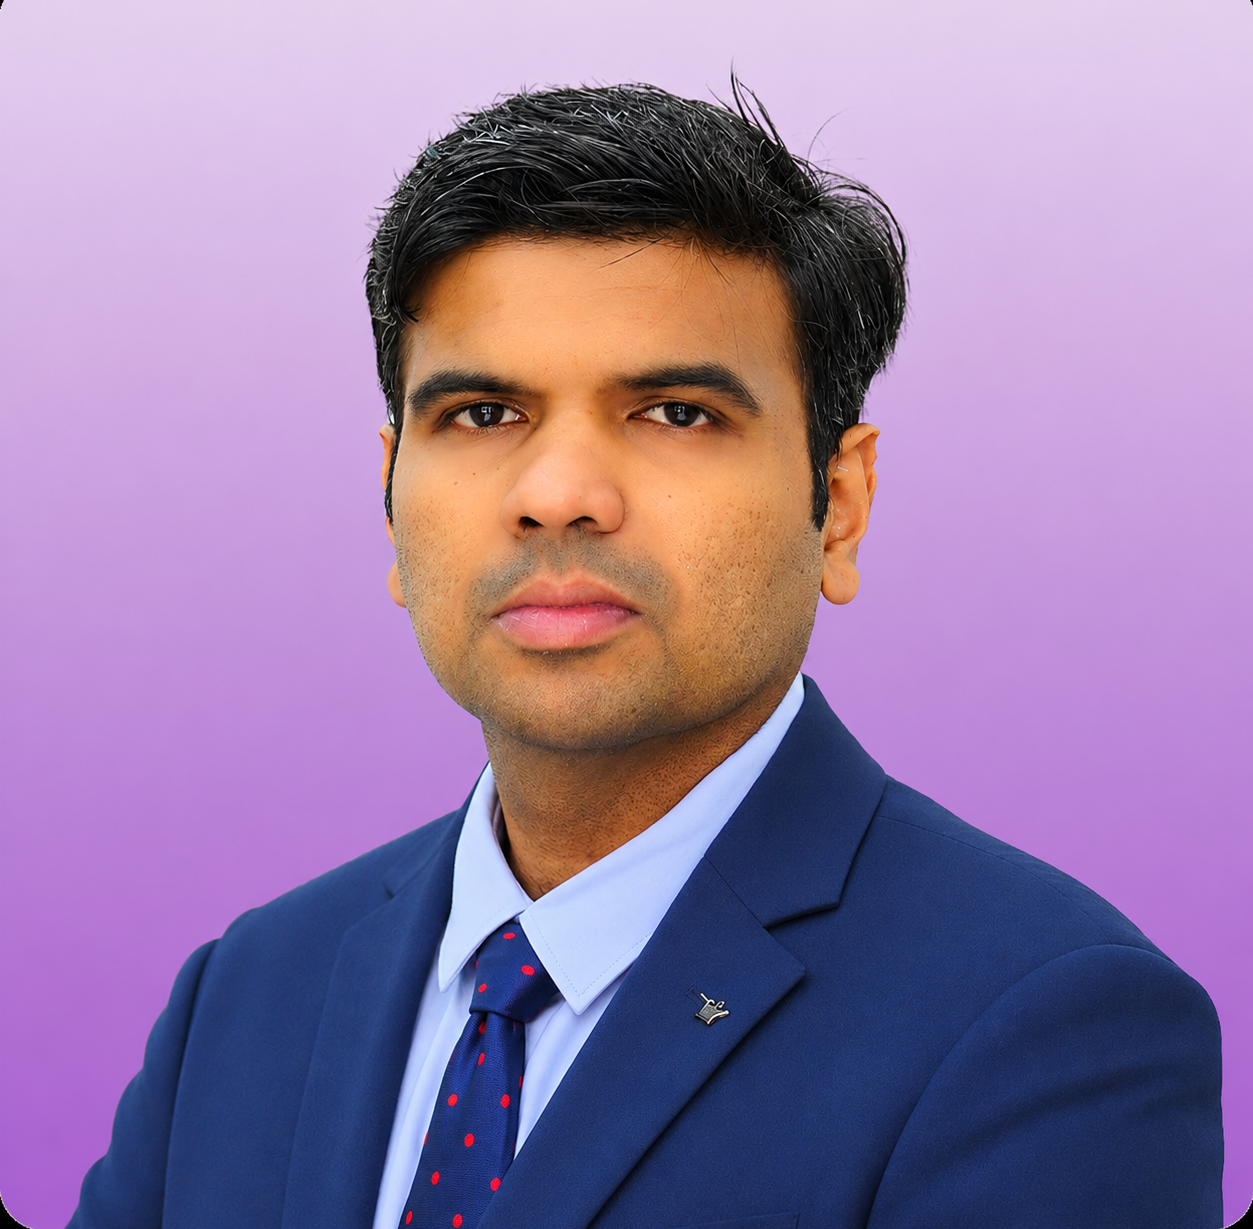
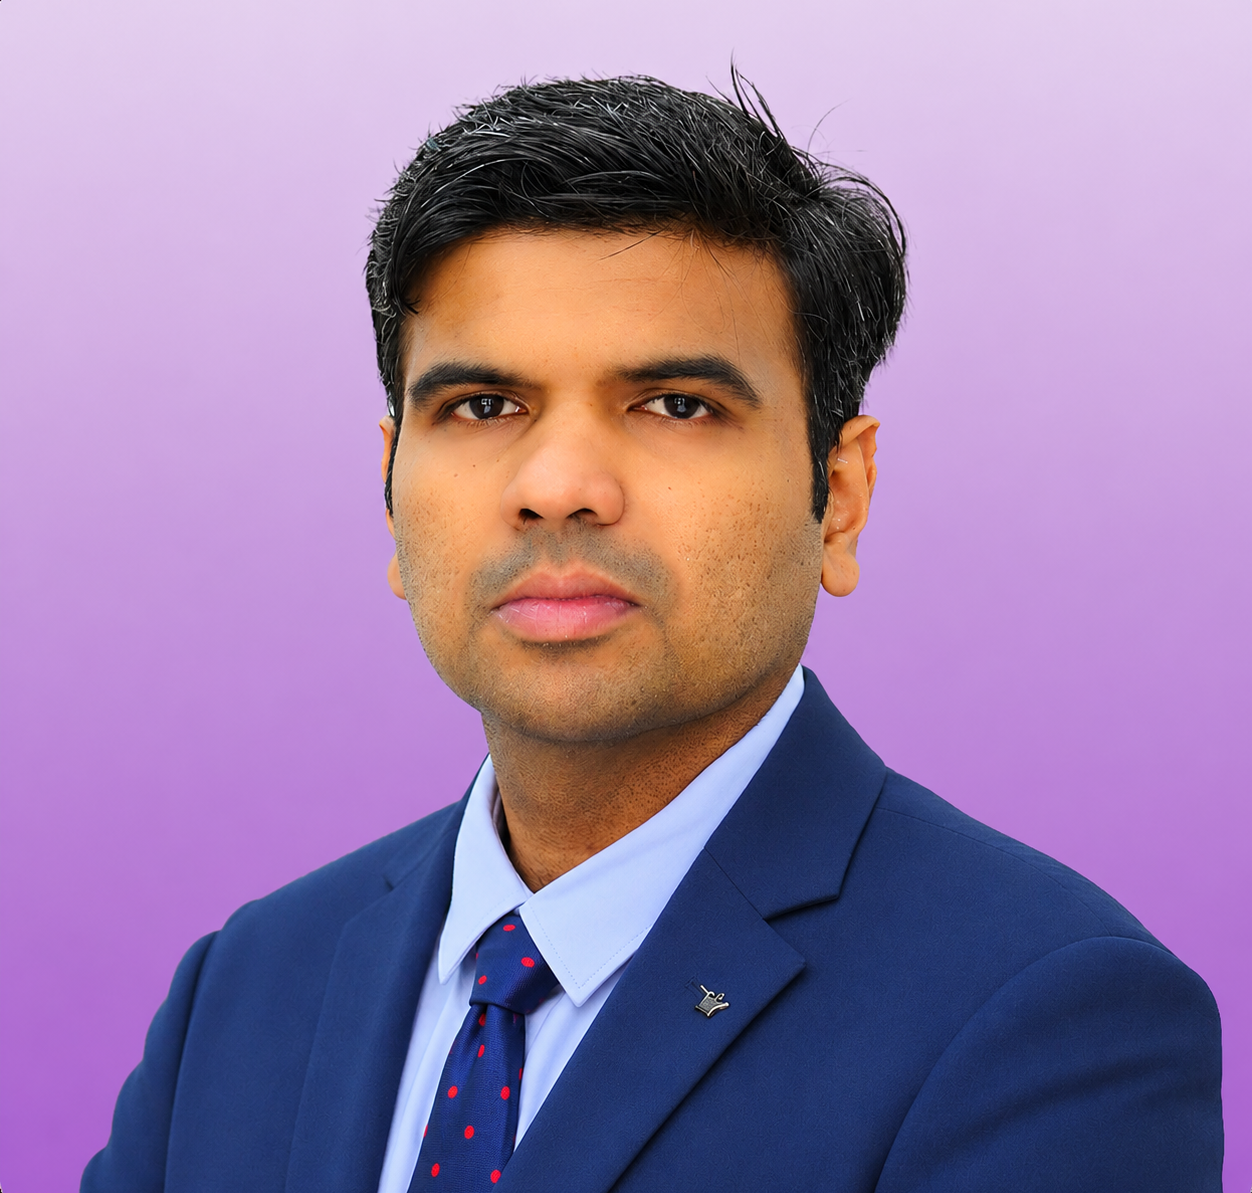
web fix 04/06

diff --git a/src/data/doctorData.js b/src/data/doctorData.js
@@ -938,7 +938,7 @@ const doctorData = {
 
   rating: "4.8",
   reviews: "80+ Ratings",
- phone: "+91 9326911195",
+ phone: "",
 
   centres: ["ICTC Thane"],
 
